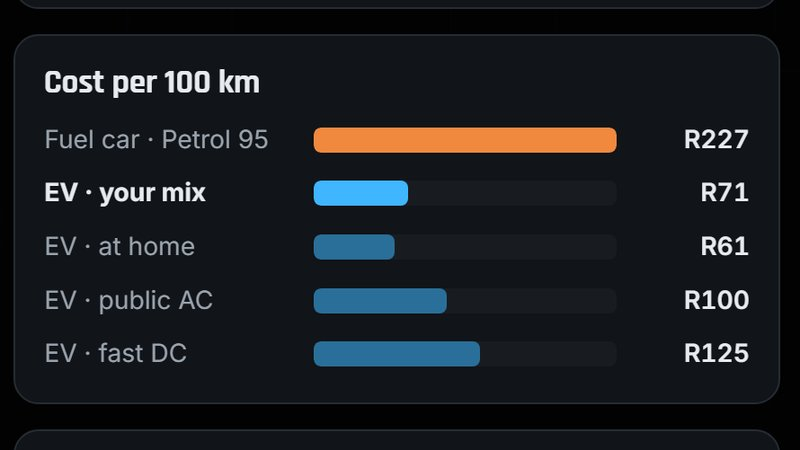
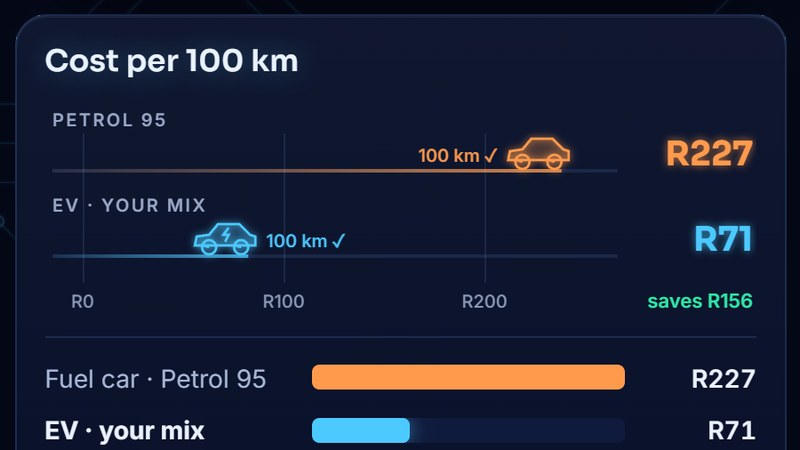
Refresh the EV cost card image for its deep space restyle
Claude-Session: https://claude.ai/code/session_01SrKBiJbaQpZ1D1r5zsGLX4

diff --git a/CLAUDE.md b/CLAUDE.md
@@ -21,7 +21,7 @@ js/main.js              Shared script for all pages: project cards (#project-gri
 js/circuit.js           The animated glowing circuit board behind every page. IDENTICAL to fuel.psyphin.co.za's circuit.js (BFP_Website docs/ and frontend/): change one, copy it to all
 css/style.css           All styles. Colours are CSS variables at the top of the file.
 assets/img/             Web-optimised logo (logo-{480,800,1200}.{webp,jpg}) + og-image.jpg + brand-64.png (pinned-header icon)
-assets/img/projects/    Card photos, 800x450 (16:9): fuel-chart.jpg, sa-towing-check.jpg, sa-tyre-pressures.jpg, winch-recovery-sizing.jpg, ropes-recovery-gear.jpg, ev-cost.jpg (a crop of the EV page's "Cost per 100 km" card at its default figures, 900 px window, 2x), dmr-gem.jpg, sherp-wire.jpg, battery-monitor.jpg, rc-remote.jpg
+assets/img/projects/    Card photos, 800x450 (16:9): fuel-chart.jpg, sa-towing-check.jpg, sa-tyre-pressures.jpg, winch-recovery-sizing.jpg, ropes-recovery-gear.jpg, ev-cost.jpg (a crop of the EV page's "Cost per 100 km" card at its default figures, 900 px window, 2x; recaptured in the navy look 2026-10-19: a 16:9 area from the card's top, with its 100 km race finished), dmr-gem.jpg, sherp-wire.jpg, battery-monitor.jpg, rc-remote.jpg
 favicon.ico             48/32/16px favicon, cropped around the "P" shield in psyphin-logo.jpg
 favicon-{48,96,192}x{48,96,192}.png  PNG favicons (Google wants multiples of 48px)
 apple-touch-icon.png    180px iOS home-screen icon (same crop)
@@ -77,7 +77,7 @@ Cards are built by `js/main.js` with `textContent`, so project text is never int
   - The Patient Monitor Smartwatch card and page (`patient-monitor/`) were removed on 2026-09-27; restore them from git history if needed. If it comes back, keep its "Hobby project, not a medical device" notice (`.notice`) and never describe it as clinically useful. Its code repo (`psyphin234/patient_Monitor`) is private.
 - **New pages:** copy `contact.html` as the template (head, header, compact logo, footer, scripts). Every page's header `<nav>` must list the same links, with `aria-current="page"` on the current one, and every page loads `js/main.js` and the GoatCounter tag.
 - **Contact email:** to hide it from spam bots, `contact.html` never contains a plain `info@psyphin.co.za`. Elements carry `data-user="info" data-domain="psyphin.co.za"` (three places), and `js/main.js` builds the address at runtime: `mailto:` on links, the visible text where `data-email="text"`, and `data-copy` on the button. To change the address, edit `data-user` in all three. Don't write a plain address anywhere in the HTML.
-- **Look and motion** ("deep space", since 2026-10-18, owner's request, the same as fuel.psyphin.co.za and towing.psyphin.co.za (2026-10-18); the other tools still have the old black look until they're restyled): navy page, slow-drifting blue/violet light (`body::after`), and a glowing circuit board drawn by `js/circuit.js` on two fixed `canvas.circuit-fx` (traces routed to fit the screen, light pulses running along them, a glow around the mouse; ~30 fps, paused in a background tab). circuit.js adds `.fx-circuit` to `<html>`, which hides the static glowing circuit tile in `body::before` (the fallback without JavaScript). Cards and the contact card are translucent glass (`--glass` + backdrop blur) with a glowing top edge; buttons are cyan gradient pills with a sheen on hover; section headings are Sora capitals with a white-to-cyan gradient. Project pages put a dark band behind their text (`.section:has(.prose)`) so the circuit doesn't run through it. `.hero::before` is a soft blue/violet glow that fades in and slowly breathes behind the logo (clipped sideways so it can't widen a phone screen), which uses `mix-blend-mode: screen` so its black background disappears. The hero logo is kept small so the Tools cards show without scrolling (since 2026-10-18, owner's request: at most 420 px wide, 70% on phones; 320 px on the contact page's compact hero), with the first section pulled up close under it (`.hero + .section`); keep the `<img>` `sizes` attributes in step if these change. The header is sticky: `js/main.js` adds `body.scrolled` after 40 px, which darkens it and shows the `.brand` mark (shield + PsyPhin). Every page's header has the `.site-header-inner` > `.brand` + `.nav` structure. Cards fade up as they come into view (`.reveal` / `.is-visible`), with a fail-safe that shows them after 2 s. All motion is off for visitors who prefer reduced motion (the circuit is drawn once and stays still).
+- **Look and motion** ("deep space", since 2026-10-18, owner's request, the same as fuel.psyphin.co.za, towing.psyphin.co.za (2026-10-18) and evcost.psyphin.co.za (2026-10-19); the other tools still have the old black look until they're restyled): navy page, slow-drifting blue/violet light (`body::after`), and a glowing circuit board drawn by `js/circuit.js` on two fixed `canvas.circuit-fx` (traces routed to fit the screen, light pulses running along them, a glow around the mouse; ~30 fps, paused in a background tab). circuit.js adds `.fx-circuit` to `<html>`, which hides the static glowing circuit tile in `body::before` (the fallback without JavaScript). Cards and the contact card are translucent glass (`--glass` + backdrop blur) with a glowing top edge; buttons are cyan gradient pills with a sheen on hover; section headings are Sora capitals with a white-to-cyan gradient. Project pages put a dark band behind their text (`.section:has(.prose)`) so the circuit doesn't run through it. `.hero::before` is a soft blue/violet glow that fades in and slowly breathes behind the logo (clipped sideways so it can't widen a phone screen), which uses `mix-blend-mode: screen` so its black background disappears. The hero logo is kept small so the Tools cards show without scrolling (since 2026-10-18, owner's request: at most 420 px wide, 70% on phones; 320 px on the contact page's compact hero), with the first section pulled up close under it (`.hero + .section`); keep the `<img>` `sizes` attributes in step if these change. The header is sticky: `js/main.js` adds `body.scrolled` after 40 px, which darkens it and shows the `.brand` mark (shield + PsyPhin). Every page's header has the `.site-header-inner` > `.brand` + `.nav` structure. Cards fade up as they come into view (`.reveal` / `.is-visible`), with a fail-safe that shows them after 2 s. All motion is off for visitors who prefer reduced motion (the circuit is drawn once and stays still).
 - **Colours/fonts:** CSS variables in `:root` at the top of `css/style.css`, the same values as the fuel site: `--bg` navy `#040817`, `--accent` cyan `#4cc9ff`, `--violet` `#7c5cff`. The hero logo and the header's brand icon blend into any background (`screen` / `lighten`), so `--bg` no longer has to match the logo's black.
 
 ## Conventions
